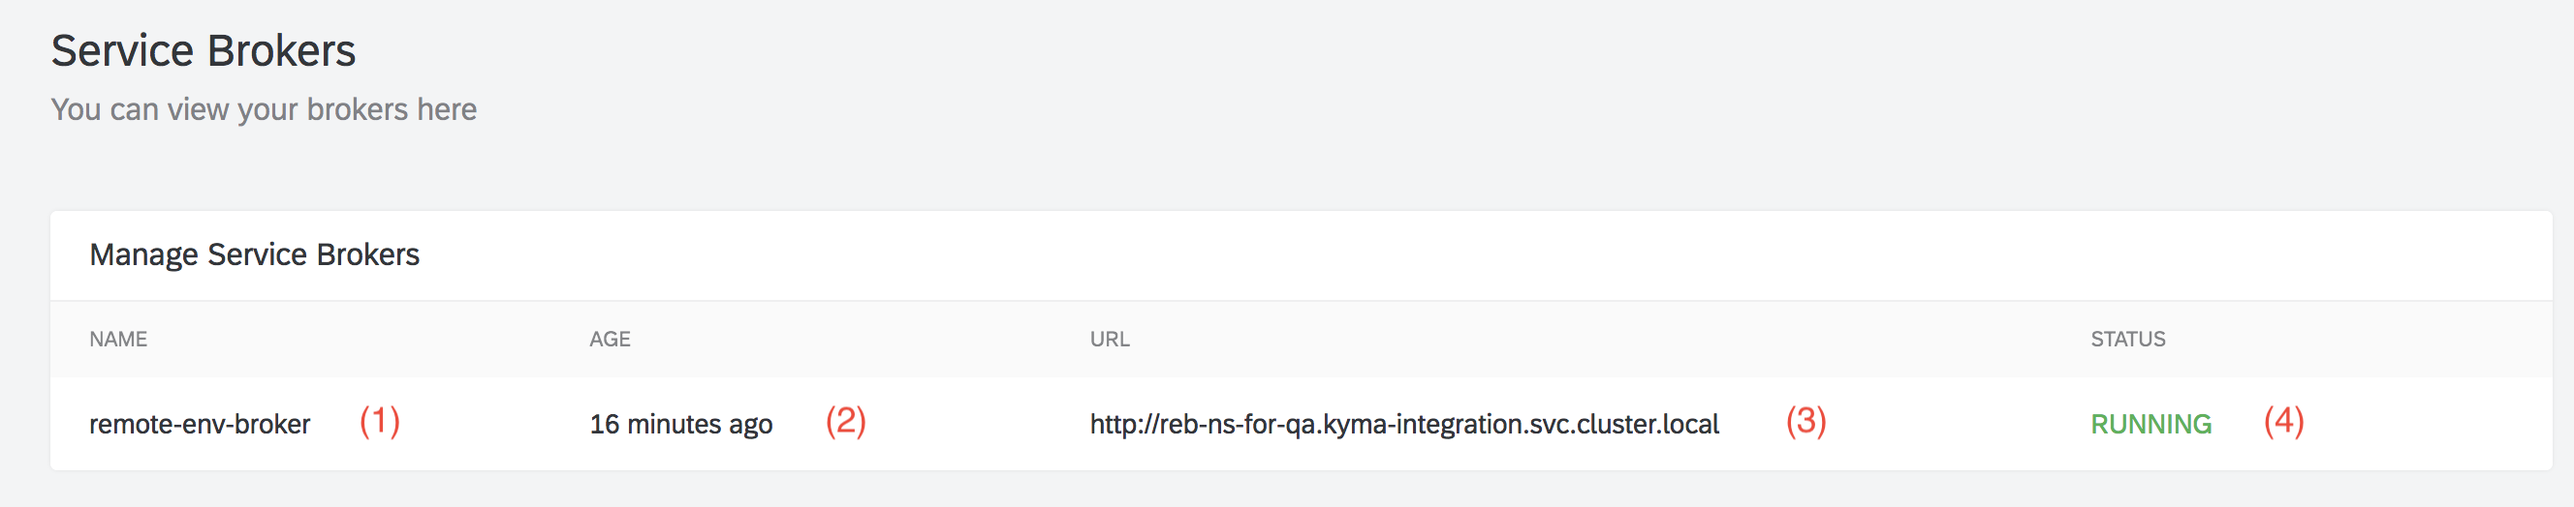
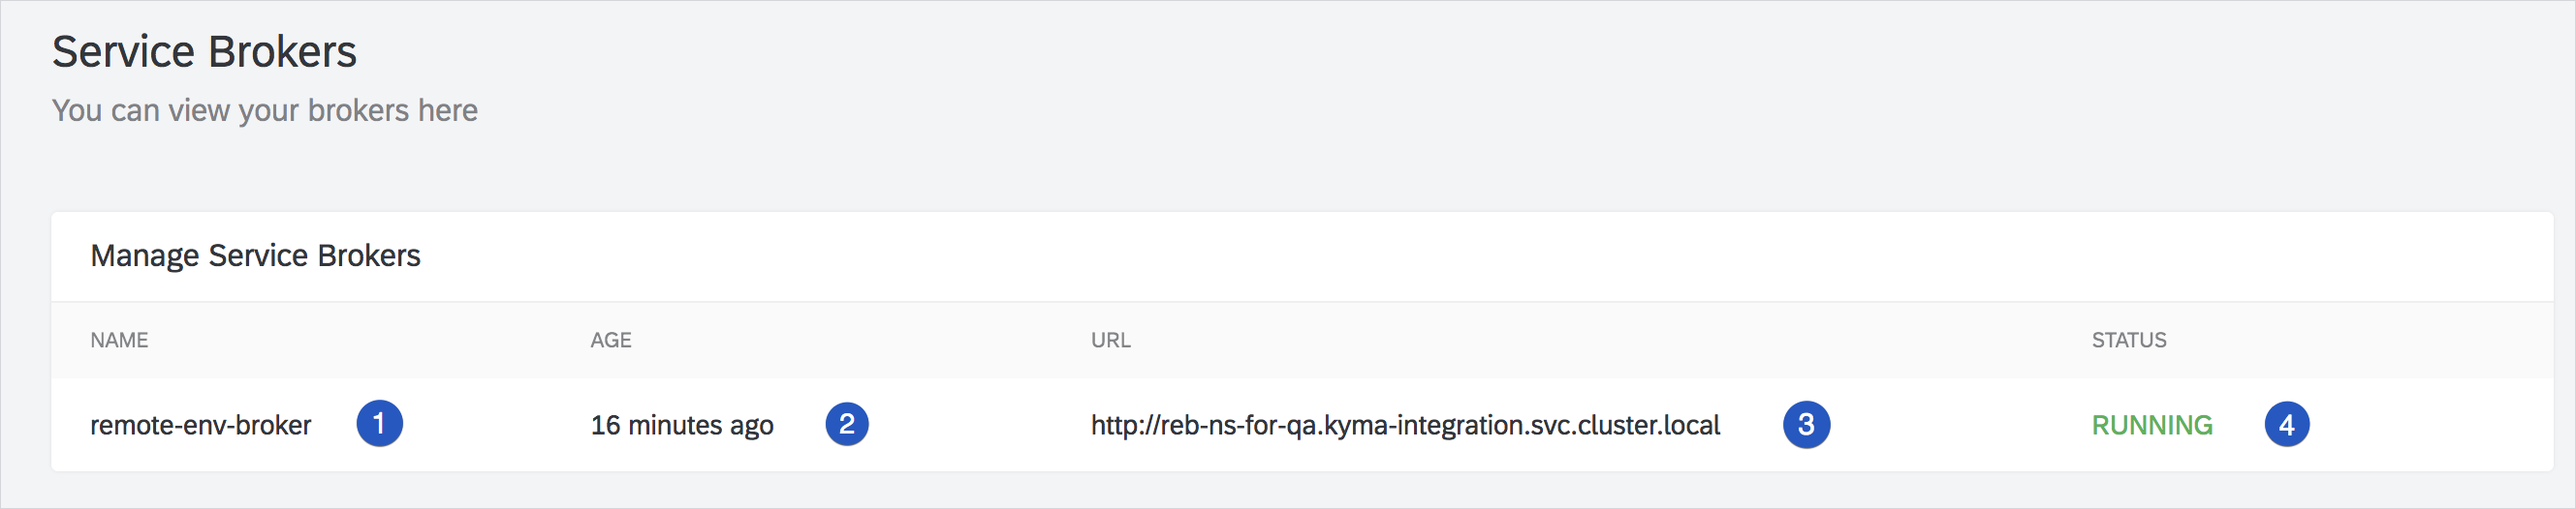
Adjust screenshots to the guidelines

diff --git a/docs/service-catalog/docs/063-osba-brokers.md b/docs/service-catalog/docs/063-osba-brokers.md
@@ -3,7 +3,7 @@ title: Brokers
 type: UI OSBA Contracts
 ---
 
-Brokers UI directly uses the [UI API Layer](https://github.com/kyma-project/kyma/tree/master/components/ui-api-layer) project to fetch the data. The UI API Layer fetches the data from the Service Brokers using the Service Catalog. The next section explains the [Service Object](https://github.com/openservicebrokerapi/servicebroker/blob/v2.13/spec.md#catalog-management) mapping from the [Open Service Broker API](https://openservicebrokerapi.org/) (OSBA) to UI fields.
+Brokers UI directly uses the [UI API Layer](https://github.com/kyma-project/kyma/tree/master/components/ui-api-layer) project which fetches the data from the Service Brokers using the Service Catalog. The next section explains the [Service Object](https://github.com/openservicebrokerapi/servicebroker/blob/v2.13/spec.md#catalog-management) mapping from the [Open Service Broker API](https://openservicebrokerapi.org/) (OSBA) to UI fields.
 
 ## Service Brokers page
 

diff --git a/docs/service-catalog/docs/062-osba-instances.md b/docs/service-catalog/docs/062-osba-instances.md
@@ -3,7 +3,7 @@ title: Instances
 type: UI OSBA Contracts
 ---
 
-Instances UI directly uses the [UI API Layer](https://github.com/kyma-project/kyma/tree/master/components/ui-api-layer) project to fetch the data. The UI API Layer fetches the data from Service Brokers using the Service Catalog. The next section explains the mapping of [Service Object](https://github.com/openservicebrokerapi/servicebroker/blob/v2.13/spec.md#catalog-management) from [OSBA](https://openservicebrokerapi.org/) to UI fields.
+Instances UI directly uses the [UI API Layer](https://github.com/kyma-project/kyma/tree/master/components/ui-api-layer) project which fetches the data from Service Brokers using the Service Catalog. The next section explains the mapping of [Service Object](https://github.com/openservicebrokerapi/servicebroker/blob/v2.13/spec.md#catalog-management) from [OSBA](https://openservicebrokerapi.org/) to UI fields.
 
 ## Service Instances page
 

diff --git a/docs/service-catalog/docs/061-osba-catalog.md b/docs/service-catalog/docs/061-osba-catalog.md
@@ -3,7 +3,7 @@ title: Catalog
 type: UI OSBA Contracts
 ---
 
-Catalog UI directly uses the [UI API Layer](https://github.com/kyma-project/kyma/tree/master/components/ui-api-layer) project to fetch the data. The UI API Layer fetches the data from Service Brokers using the Service Catalog. The next section explains the mapping of [Service Object](https://github.com/openservicebrokerapi/servicebroker/blob/v2.13/spec.md#catalog-management) from [OSBA](https://openservicebrokerapi.org/) to UI fields.
+Catalog UI directly uses the [UI API Layer](https://github.com/kyma-project/kyma/tree/master/components/ui-api-layer) project which fetches the data from Service Brokers using the Service Catalog. The next section explains the mapping of [Service Object](https://github.com/openservicebrokerapi/servicebroker/blob/v2.13/spec.md#catalog-management) from [OSBA](https://openservicebrokerapi.org/) to UI fields.
 
 ## Catalog page
 

diff --git a/docs/service-catalog/docs/060-osba-overview.md b/docs/service-catalog/docs/060-osba-overview.md
@@ -2,3 +2,9 @@
 title: Overview
 type: UI OSBA Contracts
 ---
+
+Open Service Broker API (OSBA) Contracts are specifications used by the UI, which allow to display the page content properly.
+The Contract data is displayed in 3 views in UI:
+- Catalog
+- Instances
+- brokers
